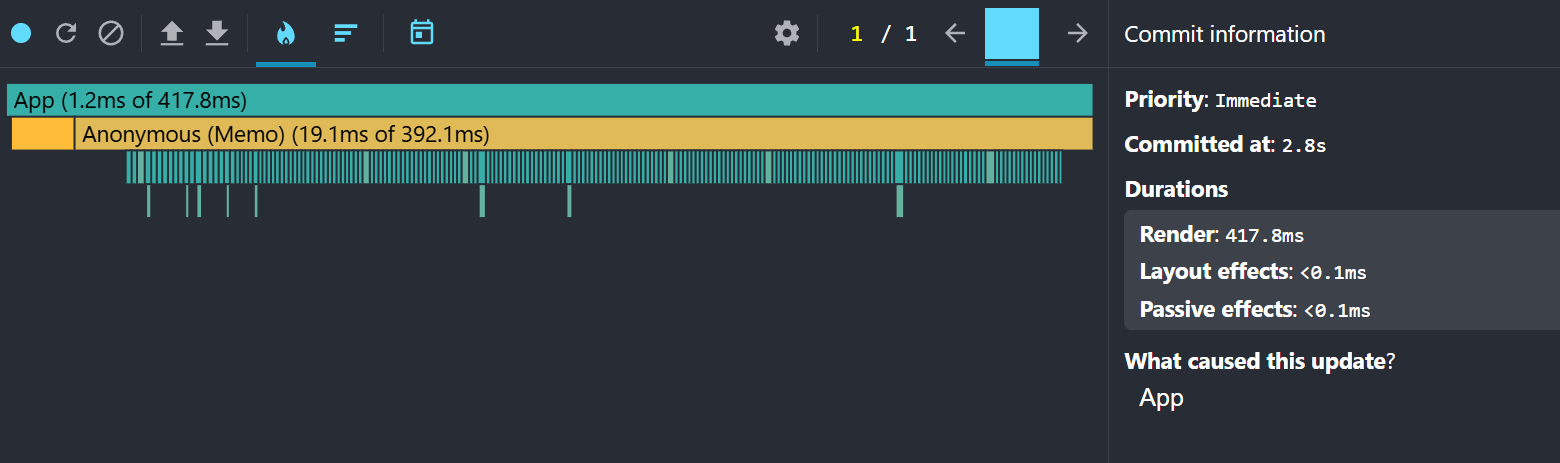
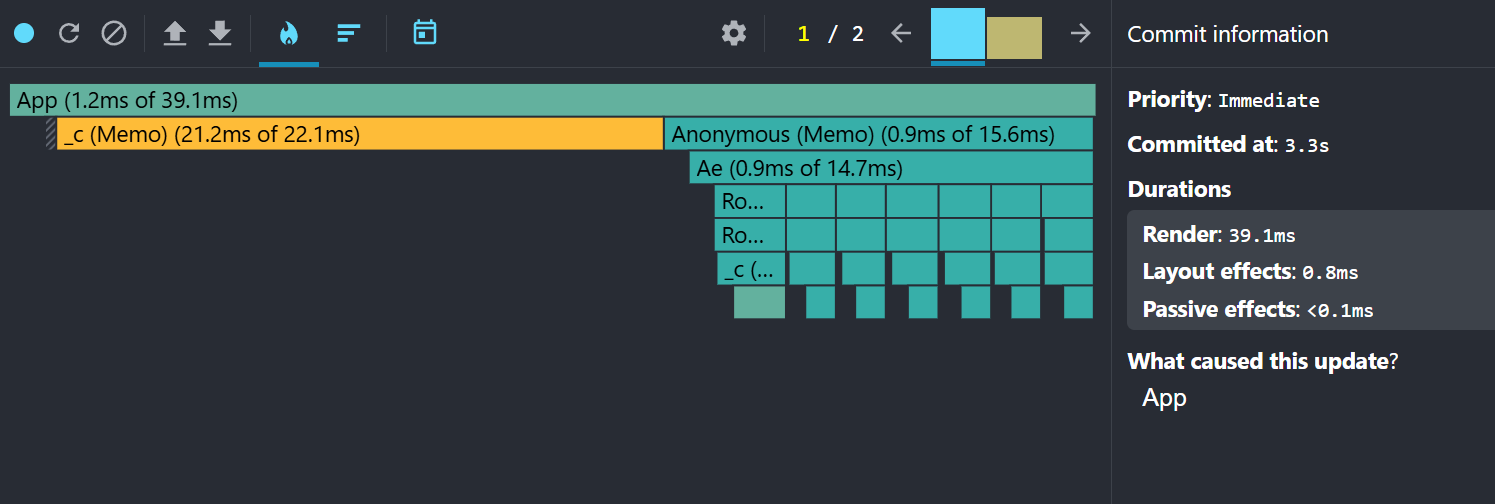
feat: add virtualization

Changed region(s): [[0.0, 0.0, 0.9538, 0.8164], [0.0, 0.0302, 0.3077, 0.121], [0.7077, 0.8467, 0.7692, 0.8769]]

diff --git a/src/components/country-list/country-list.tsx b/src/components/country-list/country-list.tsx
@@ -1,9 +1,46 @@
+import { List } from 'react-window';
+import { memo, useMemo, useRef, useState, useEffect } from 'react';
+import type { CSSProperties, ReactElement } from 'react';
 import type { Country, YearData } from '../../types';
 import { CountryCard } from '../country-card/country-card';
 import { createYearDataMap } from '../../utils/data-transformers';
 
 import styles from './country-list.module.css';
-import { memo, useMemo } from 'react';
+
+type RowProps = {
+  countries: Country[];
+  selectedYearMap: Map<string, YearData | undefined>;
+  selectedYear: number;
+  selectedColumns: string[];
+};
+
+type RowAllProps = {
+  ariaAttributes: { 'aria-posinset': number; 'aria-setsize': number; role: 'listitem' };
+  index: number;
+  style: CSSProperties;
+} & RowProps;
+
+function Row({
+  index,
+  style,
+  ariaAttributes,
+  countries,
+  selectedYearMap,
+  selectedYear,
+  selectedColumns,
+}: RowAllProps): ReactElement {
+  const country = countries[index];
+  return (
+    <div style={{ ...style, paddingBottom: 16 }} {...ariaAttributes}>
+      <CountryCard
+        country={country}
+        yearData={selectedYearMap.get(country.id)}
+        selectedYear={selectedYear}
+        selectedColumns={selectedColumns}
+      />
+    </div>
+  );
+}
 
 type CountryListProps = {
   countries: Country[];
@@ -63,17 +100,34 @@ export const CountryList = memo<CountryListProps>(
       [countries, searchQuery, selectedRegion, sortField, sortOrder, selectedYearMap]
     );
 
+    const containerRef = useRef<HTMLDivElement>(null);
+    const [listHeight, setListHeight] = useState(600);
+
+    useEffect(() => {
+      if (containerRef.current) {
+        const { top } = containerRef.current.getBoundingClientRect();
+        setListHeight(window.innerHeight - top - 20);
+      }
+    }, []);
+
+    // All cards share the same height for a given selectedColumns state
+    const itemSize = useMemo(() => 140 + selectedColumns.length * 37, [selectedColumns.length]);
+
+    const rowProps = useMemo<RowProps>(
+      () => ({ countries: filteredCountries, selectedYearMap, selectedYear, selectedColumns }),
+      [filteredCountries, selectedYearMap, selectedYear, selectedColumns]
+    );
+
     return (
-      <div className={styles.countryList}>
-        {filteredCountries.map((country) => (
-          <CountryCard
-            key={country.id}
-            country={country}
-            yearData={selectedYearMap.get(country.id)}
-            selectedYear={selectedYear}
-            selectedColumns={selectedColumns}
-          />
-        ))}
+      <div ref={containerRef} className={styles.countryList} style={{ height: listHeight }}>
+        <List<RowProps>
+          rowComponent={Row}
+          rowProps={rowProps}
+          rowCount={filteredCountries.length}
+          rowHeight={itemSize}
+          overscanCount={3}
+          defaultHeight={600}
+        />
       </div>
     );
   }

diff --git a/src/components/loading-spinner/loading-spinner.tsx b/src/components/loading-spinner/loading-spinner.tsx
@@ -1,9 +1,10 @@
 import styles from './loading-spinner.module.css';
+import { memo } from 'react';
 
-export const LoadingSpinner = () => {
+export const LoadingSpinner = memo(() => {
   return (
     <div className={styles.container}>
       <div className="spinner">Loading CO2 data...</div>
     </div>
   );
-};
+});

diff --git a/src/components/country-card/country-card.module.css b/src/components/country-card/country-card.module.css
@@ -2,7 +2,6 @@
   border: 1px solid #ddd;
   border-radius: 8px;
   padding: 16px;
-  margin-bottom: 16px;
   background-color: white;
 }
 

diff --git a/src/components/country-list/country-list.module.css b/src/components/country-list/country-list.module.css
@@ -1,3 +1,3 @@
 .countryList {
-  padding: 16px;
+  padding: 0 16px;
 }

diff --git a/PERFORMANCE.md b/PERFORMANCE.md
@@ -1,4 +1,4 @@
- # Performance Optimization Report
+# Performance Optimization Report
 
 ## Baseline Measurements
 
@@ -26,7 +26,6 @@
 - **Render duration**: 387.6ms
 - **Screenshot**: ![screenshot](./screenshots/baseline/toggle-column.png)
 
-
 ## Optimized Measurements
 
 ### Interaction A: Sort countries
@@ -44,11 +43,21 @@
 ### Interaction C: Change year
 
 - **Commit duration**: N/A (The React DevTools version used for profiling does not expose a separate Commit Duration metric.)
-- **Render duration**: 420.5ms
-- **Screenshot**: ![screenshot](./screenshots/baseline/change-year.png)
+- **Render duration**: 39.1ms
+- **Screenshot**: ![screenshot](./screenshots/optimized/change-year.png)
 
 ### Interaction D: Toggle column
 
 - **Commit duration**: N/A (The React DevTools version used for profiling does not expose a separate Commit Duration metric.)
-- **Render duration**: 387.6ms
-- **Screenshot**: ![screenshot](./screenshots/baseline/toggle-column.png)
+- **Render duration**: 24.1ms
+- **Screenshot**: ![screenshot](./screenshots/optimized/toggle-column.png)
+
+## Summary of Improvements
+
+| Interaction      | Baseline (ms) | Optimized (ms) | Improvement |
+| ---------------- | ------------- | -------------- | ----------- |
+| Sort countries   | 368.9         | 16.2           | 95.6%       |
+| Search countries | 162.4         | 6.4            | 96.0%       |
+| Change year      | 420.5         | 39.1           | 0.5%        |
+| Toggle column    | 387.6         | 24.1           | 2.5%        |
+| **Average**      | **334.5**     | **21.25**      | **93.6%**   |

diff --git a/.github/pull_request_template.md b/.github/pull_request_template.md
@@ -3,7 +3,8 @@
 3. Deploy: [link](https://github.com/)
 4. Done 28.05.2020 / deadline 31.05.2020
 5. Score: 75 / 110
-  - [x] Application is divided to logical modules / layers. Like working with api it's separate module, as well as working with UI rendering, or working with an application state, etc. Better discuss architecture with a mentor before implementing. (40/40)
-  - [x] All the HTML-content is generated by JavaScript (body contains only one tag script inside). (15/30) 
-  - [ ] Application is SPA.(0/20)
-  - [x] Webpack or another bundler should be used. There should be one HTML-file, JS-file, and one CSS-file (or it can be embedded right in the HTML-file). (20/20)
+
+- [x] Application is divided to logical modules / layers. Like working with api it's separate module, as well as working with UI rendering, or working with an application state, etc. Better discuss architecture with a mentor before implementing. (40/40)
+- [x] All the HTML-content is generated by JavaScript (body contains only one tag script inside). (15/30)
+- [ ] Application is SPA.(0/20)
+- [x] Webpack or another bundler should be used. There should be one HTML-file, JS-file, and one CSS-file (or it can be embedded right in the HTML-file). (20/20)
